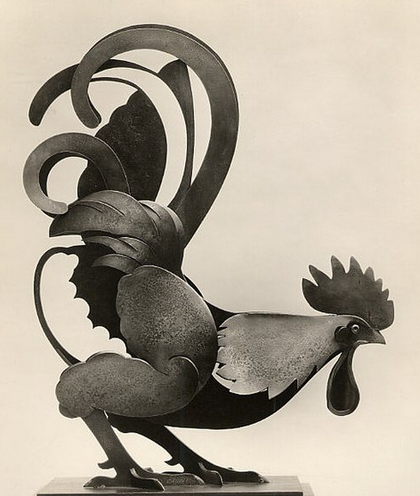
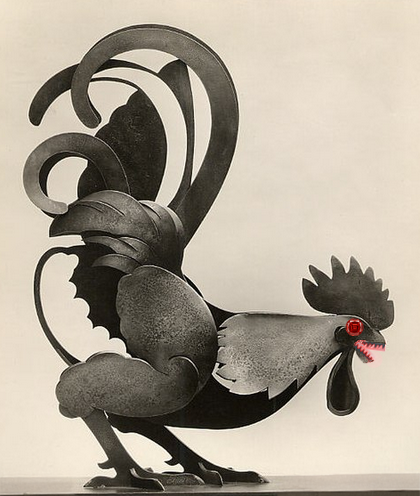
ivo

Changed region(s): [[0.65, 0.9375, 1.0, 1.0], [0.0, 0.9375, 0.1238, 1.0], [0.8048, 0.6351, 0.9286, 0.756]]

diff --git a/docs/dm/-/adventures/-/WIP/T02_S01_2025-09-28_o_portal_do_gelo.md b/docs/dm/-/adventures/-/WIP/T02_S01_2025-09-28_o_portal_do_gelo.md
@@ -5,106 +5,79 @@
 
 ***Outono, 999 CY***
 
----
+![Galo Metálico Gigante](metal_cock.png)
+# Sessão T02-S01 – O Portal do Gelo / Session T02-S01 – The Ice Gate  
+**Data / Date:** 28/09/2025  
+**Sessão / Session:** T02-S01  
 
-## 🗓 Linha Temporal
-| Semana | Data       | Sessão   | Nome da Sessão       |
-|--------|-------------|----------|----------------------|
-| 01     | 28/09/25    | T02-S01  | O Portal do Gelo     |
-
----
-
-## 👥 Personagens Jogadoras
-| Personagem                           | Função / Classe                 | Observações                                                      |
-| ------------------------------------ | ------------------------------- | ---------------------------------------------------------------- |
-| [Dustin Thorne](pc_dustin_thorne.md) | Combatente                      | Determinado e corajoso; liderou o ataque contra o Galo Metálico. |
-| [Kai](pc_kai.md)                     | Exploradora / Elementalista     | Responsável por ativar o pilar da terra.                         |
-| [Wagner](pc_wagner.md)               | Mago / Elementalista do gelo    | Manipulou o gelo para abrir caminho e proteger o grupo.          |
-| [Teias](pc_teias.md)                 | Feiticeiro(a) / Investigador(a) | Revelou que o Doutor Galileu era um autómato.                    |
-| [Silfir](pc_silfir.md)               | Entidade mágica                 | Autoidentifica-se como “memória do inverno”.                     |
+***Outono / Autumn, 999 CY***
 
 ---
 
-## 📖 Narrativa Completa
+## 🗓 Linha Temporal / Timeline
 
-### Chamado da Fada Val
-Na [Taberna](taberna.md), os aventureiros iniciam o dia em clima descontraído, quando surge a **[Fada Val](fada_val.md)** — uma emissária mágica do **[Doutor Galileu](doutor_galileu.md)**.  
-Com um estalar de dedos, ela teleporta toda a construção para a margem do **[Selintan](selintan.md)**, onde o excêntrico inventor, um **autómato consciente**, os aguarda.
-
-Galileu explica que precisa da ajuda do grupo para abrir um portal para o **[Plano do Gelo](ice_plan.md)** e recuperar um **[Diamante Vermelho](red_diamond.md)**, essencial para as suas experiências. Ele entrega aos heróis uma **[Bússola Mágica](magic_compass.md)** para guiá-los até o artefacto.
+| Semana / Week | Data / Date | Sessão / Session | Nome / Title |
+|----------------|--------------|------------------|---------------|
+| 01 | 28/09/25 | T02-S01 | O Portal do Gelo / The Ice Gate |
 
 ---
 
-### O Ritual dos Quatro Pilares
-O grupo encontra quatro pilares de pedra cobertos por runas dos elementos — **água, fogo, ar e terra**.  
-Cada pilar é ativado por um membro diferente:  
-- **[Kai](pc_kai.md)** aciona o da terra,  
-- **[Wagner](pc_wagner.md)** o do gelo (água),  
-- os restantes auxiliam completando o círculo mágico.  
+## 📖 Visão Geral / Overview
 
-Com o ritual completo, abre-se um portal cintilante para o **Plano do Gelo**, e uma corrente gélida envolve todos.
+| Português | English |
+|------------|----------|
+| Os aventureiros são convocados pela [Fada Val](fada_val.md), emissária do [Doutor Galileu](doutor_galileu.md), que transporta a [Taberna](taverna.md) através de magia para as margens do [Selintan](selintan.md). Lá, o grupo ajuda o excêntrico inventor — um autómato consciente — a abrir um portal para o [Plano do Gelo](ice_plan.md) e recuperar um poderoso [Diamante Vermelho](red_diamond.md). A expedição leva-os a enfrentar reflexos de si próprios, um servo do [Institute of the Veiled Light](institute_of_the_veiled_light.md) e um guardião mecânico colossal. | The adventurers are summoned by [Fada Val](fada_val.md), emissary of [Doctor Galileu](doutor_galileu.md), who magically transports the [Tavern](taverna.md) to the banks of the [Selintan](selintan.md). There, they assist the eccentric inventor — a self-aware automaton — in opening a portal to the [Ice Plane](ice_plan.md) and recovering a powerful [Red Diamond](red_diamond.md). Their journey leads them to face reflections of themselves, a servant of the [Institute of the Veiled Light](institute_of_the_veiled_light.md), and a colossal mechanical guardian. |
 
 ---
 
-### O Plano do Gelo
-Do outro lado, os aventureiros encontram um mundo de frio absoluto e ruínas cobertas de neve — a antiga **[Greyhawk em Ruínas](greyhawk_ruins.md)**.  
-Enquanto exploram, avistam **[Vultos Reflexos](vultos_reflexos.md)** — sete figuras idênticas a eles próprios, que desaparecem ao serem atacadas.
+## ⚔ Eventos Principais / Key Events
 
-Logo após, um **[Humano Corrompido](corrupt_human.md)** revela-se servo do **[Instituto da Luz Velada](instituto_da_luz_velada.md)**, alegando que o diamante pertence ao Instituto. Ele invoca **[Dinossauros Invocados](dinossauros_invocados.md)** antes de ser derrotado por **[Dustin Thorne](pc_dustin_thorne.md)**.
-
----
-
-### O Guardião Metálico
-No coração das ruínas, o grupo depara-se com o guardião final: o **[Galo Metálico Gigante](galo_metalico_gigante.md)** — um construto colossal com olhos vermelhos como rubis.  
-O combate é feroz; **[Dustin Thorne](pc_dustin_thorne.md)** lidera o ataque enquanto **[Wagner](pc_wagner.md)** manipula o gelo para proteger os aliados.  
-O monstro é destruído, revelando dentro do seu crânio o **[Diamante Vermelho](red_diamond.md)** procurado.
-
-Durante a luta, o **[Doutor Galileu](doutor_galileu.md)** é gravemente ferido, perdendo um braço mecânico.
+| Português | English |
+|------------|----------|
+| **Chamado da Fada Val** — Na [Taberna](taverna.md), os aventureiros recebem o apelo mágico da [Fada Val](fada_val.md). Ela revela que o [Doutor Galileu](doutor_galileu.md) precisa de ajuda para abrir um portal. | **Call of Fada Val** — At the [Tavern](taverna.md), the adventurers receive the magical summons from [Fada Val](fada_val.md). She reveals that [Doctor Galileu](doutor_galileu.md) needs help opening a portal. |
+| **Ritual dos Quatro Pilares** — O grupo ativa os pilares elementais de terra, ar, fogo e água, abrindo o portal para o [Plano do Gelo](ice_plan.md). | **Ritual of the Four Pillars** — The group activates the elemental pillars of earth, air, fire, and water, opening the portal to the [Ice Plane](ice_plan.md). |
+| **Reflexos e Corrupção** — No plano gelado, encontram os [Vultos Reflexos](vultos_reflexos.md) e enfrentam um [Humano Corrompido](corrupt_human.md) que serve o [Institute of the Veiled Light](institute_of_the_veiled_light.md). | **Reflections and Corruption** — In the frozen plane, they encounter the [Reflex Shadows](vultos_reflexos.md) and fight a [Corrupted Human](corrupt_human.md) serving the [Institute of the Veiled Light](institute_of_the_veiled_light.md). |
+| **O Guardião Metálico** — Um [Galo Metálico Gigante](galo_metalico_gigante.md) protege o [Diamante Vermelho](red_diamond.md); o grupo vence após um combate brutal. | **The Metallic Guardian** — A [Giant Metallic Rooster](galo_metalico_gigante.md) guards the [Red Diamond](red_diamond.md); the party triumphs after a brutal battle. |
+| **Conclusão** — O [Doutor Galileu](doutor_galileu.md) recompensa os heróis e a [Fada Val](fada_val.md) promete restaurar a [Taberna](taverna.md). | **Conclusion** — [Doctor Galileu](doutor_galileu.md) rewards the heroes and [Fada Val](fada_val.md) promises to restore the [Tavern](taverna.md). |
 
 ---
 
-### Conclusão
-Com o diamante recuperado, o grupo retorna pelo portal.  
-Galileu, enfraquecido, agradece a ajuda e entrega **250 gp** a cada um como recompensa.  
-A **[Fada Val](fada_val.md)** promete que a Taberna será restaurada e que o inventor continuará o seu trabalho — mas as runas e os símbolos vistos nas ruínas apontam para uma verdade mais sombria: o **[Instituto da Luz Velada](instituto_da_luz_velada.md)** está de volta.
+## 👥 Elenco / Cast
+
+| Personagem | Função / Classe | Observações |
+|-------------|-----------------|--------------|
+| [Dustin Thorne](pc_dustin_thorne.md) | Combatente / Fighter | Determinado e corajoso; liderou o ataque contra o [Galo Metálico Gigante](galo_metalico_gigante.md). |
+| [Kai](pc_kai.md) | Exploradora / Elementalist | Responsável por ativar o pilar da terra. |
+| [Wagner](pc_wagner.md) | Mago / Ice Elementalist | Manipulou o gelo para abrir caminho e proteger o grupo. |
+| [Teias](pc_teias.md) | Feiticeiro(a) / Investigator | Revelou que o [Doutor Galileu](doutor_galileu.md) era um autómato. |
+| [Silfir](pc_silfir.md) | Entidade mágica / Magical Entity | Autoidentifica-se como “memória do inverno.” |
 
 ---
 
-## 🎲 Resumo de Acontecimentos
-- A [Fada Val](fada_val.md) teleporta a [Taberna](taberna.md) para o [Selintan](selintan.md).  
-- O grupo ajuda o [Doutor Galileu](doutor_galileu.md) a abrir o portal para o [Plano do Gelo](ice_plan.md).  
-- Ativação dos quatro pilares elementais.  
-- Encontro com [Vultos Reflexos](vultos_reflexos.md).  
-- Combate com o [Humano Corrompido](corrupt_human.md) e os [Dinossauros Invocados](dinossauros_invocados.md).  
-- Batalha final contra o [Galo Metálico Gigante](galo_metalico_gigante.md).  
-- Recuperação do [Diamante Vermelho](red_diamond.md).  
-- Recompensa de 250 gp e promessa de futuras alianças.  
+## 💰 Recompensas e Itens / Rewards & Loot
+
+| Item | Detalhes |
+|------|-----------|
+| [Red Diamond](red_diamond.md) | Entregue ao [Doctor Galileu](doutor_galileu.md) como núcleo de energia. |
+| [Magic Compass](magic_compass.md) | Permanece com os aventureiros; guia planar. |
+| [Ruined Book](ruined_book.md) | Encontrado na [Tavern](taverna.md); menciona o [Institute of the Veiled Light](institute_of_the_veiled_light.md). |
+| 250 gp | Recompensa paga a cada membro pelo [Doctor Galileu](doutor_galileu.md). |
 
 ---
 
-## 💰 Loot Distribuído
-- **[Diamante Vermelho](red_diamond.md)** – entregue ao [Doutor Galileu](doutor_galileu.md).  
-- **250 gp** – recompensa para o grupo.  
-- **[Bússola Mágica](magic_compass.md)** – permanece com os aventureiros.  
-- **[Caderno Destruído](ruined_book.md)** – encontrado nas ruínas da [Taberna](taberna.md) (indício do [Instituto da Luz Velada](instituto_da_luz_velada.md)).  
+## 🌌 Consequências e Ganchos / Aftermath & Hooks
+
+| Português | English |
+|------------|----------|
+| A abertura do portal para o [Ice Plane](ice_plan.md) sugere novas ameaças planárias. O [Institute of the Veiled Light](institute_of_the_veiled_light.md) regressa à sombra, e as ruínas de [Greyhawk Ruins](greyhawk_ruins.md) continuam a emitir energia instável. | The opening of the [Ice Plane](ice_plan.md) portal hints at new planar threats. The [Institute of the Veiled Light](institute_of_the_veiled_light.md) returns to the shadows, and the [Greyhawk Ruins](greyhawk_ruins.md) still radiate unstable energy. |
 
 ---
 
-## 🧾 Notas Extra
-- Primeira sessão da Temporada 2.  
-- Ligações reforçadas: [Plano do Gelo](ice_plan.md), [Instituto da Luz Velada](instituto_da_luz_velada.md), [Greyhawk em Ruínas](greyhawk_ruins.md), [Selintan](selintan.md).  
-- [Fada Val](fada_val.md) demonstra poder de transporte planar.  
-- [Doutor Galileu](doutor_galileu.md) confirma ser um autómato e inicia nova fase da sua pesquisa.  
-- O [Instituto da Luz Velada](instituto_da_luz_velada.md) ressurge como antagonista oculto.  
+## 🧩 Notas do Mestre / DM-Only Notes
 
----
-
-### Temas de Conversa
-- Que ligação existe entre o [Plano do Gelo](ice_plan.md) e o [Instituto da Luz Velada](instituto_da_luz_velada.md)?  
-- O [Doutor Galileu](doutor_galileu.md) será uma criação do Instituto ou uma mente livre?  
-- O meteoro que destruiu a [Taberna](taberna.md) será uma arma ou um sinal?  
-- Que outros planos poderão ser alcançados através do [Diamante Vermelho](red_diamond.md)?  
-- Serão os [Vultos Reflexos](vultos_reflexos.md) ecos de realidades paralelas ou manifestações da mente?  
-- Que nova ameaça prepara o [Instituto da Luz Velada](instituto_da_luz_velada.md) nos bastidores?
+| Português                                                                                                                                                                                                                                                                                                                                              | English                                                                                                                                                                                                                                                                                                                                              |
+| ------------------------------------------------------------------------------------------------------------------------------------------------------------------------------------------------------------------------------------------------------------------------------------------------------------------------------------------------------ | ---------------------------------------------------------------------------------------------------------------------------------------------------------------------------------------------------------------------------------------------------------------------------------------------------------------------------------------------------- |
+| As runas nos pilares contêm símbolos idênticos aos usados pelo [Institute of the Veiled Light](institute_of_the_veiled_light.md), implicando que o [Doctor Galileu](doutor_galileu.md) pode ter sido uma criação do Instituto. O [Magic Compass](magic_compass.md) reage a energias de portais semelhantes, servindo como gancho para futuras missões. | The runes on the pillars bear symbols identical to those used by the [Institute of the Veiled Light](institute_of_the_veiled_light.md), implying that [Doctor Galileu](doutor_galileu.md) may have been a creation of the Institute. The [Magic Compass](magic_compass.md) reacts to similar portal energies, serving as a hook for future missions. |
+| As energias residuais no [Selintan](selintan.md) podem causar anomalias mágicas próximas à [Tavern](taverna.md).                                                                                                                                                                                                                                       | Residual energies in the [Selintan](selintan.md) may cause magical anomalies near the [Tavern](taverna.md).                                                                                                                                                                                                                                          |
 
 ---

diff --git a/docs/organizations/-/factions/institute_of_the_veiled_light.md b/docs/organizations/-/factions/institute_of_the_veiled_light.md
@@ -7,8 +7,8 @@
 
 ![Instituto da Luz Velada](institute_of_the_veiled_light.png)
 
-| Português                                                                                                                                                                                                                                                                                                                                                                                                                                                                                                                                                                                                                       | English                                                                                                                                                                                                                                                                                                                                                                                                                                                                                                                                                                                                      |
-| ------------------------------------------------------------------------------------------------------------------------------------------------------------------------------------------------------------------------------------------------------------------------------------------------------------------------------------------------------------------------------------------------------------------------------------------------------------------------------------------------------------------------------------------------------------------------------------------------------------------------------- | ------------------------------------------------------------------------------------------------------------------------------------------------------------------------------------------------------------------------------------------------------------------------------------------------------------------------------------------------------------------------------------------------------------------------------------------------------------------------------------------------------------------------------------------------------------------------------------------------------------ |
-| **Descrição:** Organização secreta dedicada à manipulação da energia planar e da luz arcana. O seu símbolo - as iniciais “ILV” envoltas num círculo de runas - foi encontrado em vários locais, incluindo o [Caderno Destruído](ruined_book.md) e as ruínas de [Greyhawk em Ruínas](greyhawk_ruins.md). O [Humano Corrompido](corrupt_human.md) declarou agir em seu nome, procurando o [Diamante Vermelho](red_diamond.md) para fins desconhecidos. As suas atividades sugerem influência profunda no surgimento do [Plano do Gelo](ice_plan.md) e possível envolvimento com a criação do [Doutor Galileu](doutor_galileu.md). | **Description:** A secret organization devoted to manipulating planar energy and arcane light. Its sigil - the initials “ILV” within a ring of runes - has been found in multiple sites, including the [Destroyed Notebook](ruined_book.md) and the ruins of [Greyhawk in Ruins](greyhawk_ruins.md). The [Corrupted Human](corrupt_human.md) claimed to act in its name, seeking the [Red Diamond](red_diamond.md) for unknown purposes. Its operations suggest deep involvement in the rise of the [Ice Plane](ice_plan.md) and possible connection to the creation of [Doctor Galileu](doutor_galileu.md). |
+| Português                                                                                                                                                                                                                                                                                                                                                                                                                                                                                                                                                                                                             | English                                                                                                                                                                                                                                                                                                                                                                                                                                                                                                                                                                                             |
+| --------------------------------------------------------------------------------------------------------------------------------------------------------------------------------------------------------------------------------------------------------------------------------------------------------------------------------------------------------------------------------------------------------------------------------------------------------------------------------------------------------------------------------------------------------------------------------------------------------------------- | --------------------------------------------------------------------------------------------------------------------------------------------------------------------------------------------------------------------------------------------------------------------------------------------------------------------------------------------------------------------------------------------------------------------------------------------------------------------------------------------------------------------------------------------------------------------------------------------------- |
+| **Descrição:** Organização secreta dedicada à manipulação da energia planar e da luz arcana. O seu símbolo - as iniciais “ILV” envoltas num círculo de runas - foi encontrado em vários locais, incluindo o [Caderno Destruído](ruined_book.md) e as ruínas de [Greyhawk](greyhawk_ruins.md). O [Humano Corrompido](corrupt_human.md) declarou agir em seu nome, procurando o [Diamante Vermelho](red_diamond.md) para fins desconhecidos. As suas atividades sugerem influência profunda no surgimento do [Plano do Gelo](ice_plan.md) e possível envolvimento com a criação do [Doutor Galileu](doutor_galileu.md). | **Description:** A secret organization devoted to manipulating planar energy and arcane light. Its sigil - the initials “ILV” within a ring of runes - has been found in multiple sites, including the [Destroyed Notebook](ruined_book.md) and the ruins of [Greyhawk](greyhawk_ruins.md). The [Corrupted Human](corrupt_human.md) claimed to act in its name, seeking the [Red Diamond](red_diamond.md) for unknown purposes. Its operations suggest deep involvement in the rise of the [Ice Plane](ice_plan.md) and possible connection to the creation of [Doctor Galileu](doutor_galileu.md). |
 
 ---

diff --git a/docs/locations/cities/free_city_of_greyhawk/selintan.md b/docs/locations/cities/free_city_of_greyhawk/selintan.md
@@ -9,6 +9,6 @@
 
 | Português | English |
 |-----------|----------|
-| **Descrição:** O majestoso rio que atravessa a região de [Greyhawk](greyhawk_ruins.md), servindo como via de transporte e comércio entre o mar interior e as terras centrais. Nas margens próximas ao porto da cidade, o [Doutor Galileu](doutor_galileu.md) mantém o seu laboratório. Foi aqui que a [Fada Val](fada_val.md) transportou magicamente a [Taberna](taberna.md) e onde os aventureiros abriram o portal para o [Plano do Gelo](ice_plan.md). O Selintan é também palco de mitos sobre espíritos da água e ecos de magias antigas. | **Description:** The majestic river that flows through [Greyhawk](greyhawk_ruins.md), serving as a vital trade and travel route between the inland sea and central lands. On its banks near the city’s port lies the laboratory of [Doctor Galileu](doutor_galileu.md). It was here that [Fada Val](fada_val.md) magically transported the [Tavern](taberna.md) and where the adventurers opened the portal to the [Ice Plane](ice_plan.md). The Selintan is also said to be home to ancient water spirits and remnants of lost magic. |
+| **Descrição:** O majestoso rio que atravessa a região de [Greyhawk](greyhawk_ruins.md), servindo como via de transporte e comércio entre o mar interior e as terras centrais. Nas margens próximas ao porto da cidade, o [Doutor Galileu](doutor_galileu.md) mantém o seu laboratório. Foi aqui que a [Fada Val](fada_val.md) transportou magicamente a [Taberna](taverna.md) e onde os aventureiros abriram o portal para o [Plano do Gelo](ice_plan.md). O Selintan é também palco de mitos sobre espíritos da água e ecos de magias antigas. | **Description:** The majestic river that flows through [Greyhawk](greyhawk_ruins.md), serving as a vital trade and travel route between the inland sea and central lands. On its banks near the city’s port lies the laboratory of [Doctor Galileu](doutor_galileu.md). It was here that [Fada Val](fada_val.md) magically transported the [Tavern](taverna.md) and where the adventurers opened the portal to the [Ice Plane](ice_plan.md). The Selintan is also said to be home to ancient water spirits and remnants of lost magic. |
 
 ---

diff --git a/docs/loot/itens/ruined_book.md b/docs/loot/itens/ruined_book.md
@@ -9,6 +9,6 @@
 
 | Português | English |
 |-----------|----------|
-| **Descrição:** Fragmentos de um diário queimado encontrados nas ruínas da [Taberna](taberna.md). Contêm notas rasgadas que mencionam o [Instituto da Luz Velada](instituto_da_luz_velada.md) e um “ataque após a queda de um meteoro”. As anotações sugerem que o evento pode ter ligação com o surgimento do [Plano do Gelo](ice_plan.md) e com o poder do [Diamante Vermelho](red_diamond.md). | **Description:** Burnt fragments of a notebook found in the ruins of the [Tavern](taberna.md). Contain torn notes mentioning the [Institute of the Veiled Light](instituto_da_luz_velada.md) and “an attack after the meteor’s fall.” The writing hints at a link between this event, the appearance of the [Ice Plane](ice_plan.md), and the [Red Diamond](red_diamond.md)’s power. |
+| **Descrição:** Fragmentos de um diário queimado encontrados nas ruínas da [Taberna](taverna.md). Contêm notas rasgadas que mencionam o [Instituto da Luz Velada](instituto_da_luz_velada.md) e um “ataque após a queda de um meteoro”. As anotações sugerem que o evento pode ter ligação com o surgimento do [Plano do Gelo](ice_plan.md) e com o poder do [Diamante Vermelho](red_diamond.md). | **Description:** Burnt fragments of a notebook found in the ruins of the [Tavern](taverna.md). Contain torn notes mentioning the [Institute of the Veiled Light](instituto_da_luz_velada.md) and “an attack after the meteor’s fall.” The writing hints at a link between this event, the appearance of the [Ice Plane](ice_plan.md), and the [Red Diamond](red_diamond.md)’s power. |
 
 ---

diff --git a/docs/npc/-/unknown/fada_val.md b/docs/npc/-/unknown/fada_val.md
@@ -9,6 +9,6 @@
 
 | Português | English |
 |-----------|----------|
-| **Descrição:** Fada de luz azulada que serve o [Doutor Galileu](doutor_galileu.md) como mensageira e assistente. Apareceu aos aventureiros na [Taberna](taberna.md), pedindo ajuda urgente para o seu mestre. Com um estalar de dedos, teletransportou a taberna inteira para as margens do [Selintan](selintan.md). Demonstra domínio de magia planar e empatia genuína para com os mortais. | **Description:** A bluish fairy who serves [Doctor Galileu](doutor_galileu.md) as messenger and assistant. She appeared to the adventurers at the [Tavern](taberna.md), urgently requesting help for her master. With a snap of her fingers, she teleported the entire tavern to the banks of the [Selintan](selintan.md). She displays mastery of planar magic and genuine empathy toward mortals. |
+| **Descrição:** Fada de luz azulada que serve o [Doutor Galileu](doutor_galileu.md) como mensageira e assistente. Apareceu aos aventureiros na [Taberna](taverna.md), pedindo ajuda urgente para o seu mestre. Com um estalar de dedos, teletransportou a taberna inteira para as margens do [Selintan](selintan.md). Demonstra domínio de magia planar e empatia genuína para com os mortais. | **Description:** A bluish fairy who serves [Doctor Galileu](doutor_galileu.md) as messenger and assistant. She appeared to the adventurers at the [Tavern](taverna.md), urgently requesting help for her master. With a snap of her fingers, she teleported the entire tavern to the banks of the [Selintan](selintan.md). She displays mastery of planar magic and genuine empathy toward mortals. |
 
 ---

diff --git a/docs/dm/-/monsters/bullywug_infestados.md b/docs/dm/-/monsters/bullywug_infestados.md
@@ -1,4 +1,4 @@
-### Bullywug Infestados
+### Bullywug Infestados
 
 Sessão: 1 | Data: 2025-08-02 | Fonte: s01.txt | Tags: criatura, inimigo, infestação
 
